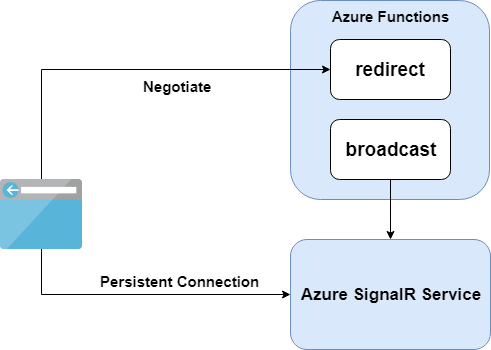
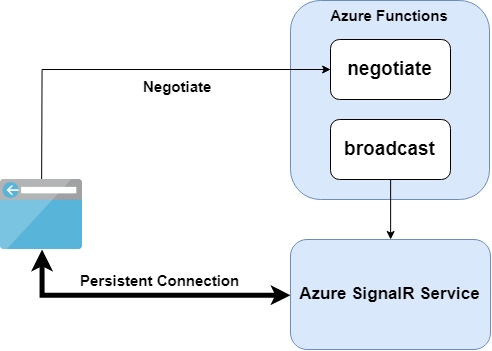
minor refine

diff --git a/docs/rest-api.md b/docs/rest-api.md
@@ -23,7 +23,7 @@ The following diagram shows a typical server-less architecture of using Azure Si
 
 ![Typical Serverless Architecture](./images/serverless-arch.png)
 
-- `redirect` function will return negotiation response and redirect all clients to Azure SignalR Service.
+- `negotiate` function will return negotiation response and redirect all clients to Azure SignalR Service.
 - `broadcast` function will call Azure SignalR Service's REST API. Then SignalR Service will broadcast the message to all connected clients.
 
 In server-less architecture, clients still have persistent connections to Azure SignalR Service.
@@ -127,7 +127,7 @@ Otherwise SignalR Service can't find target connections from a given user id.
 This can be achieved by including a `nameid` claim in each client's JWT token when they are connecting to Azure SignalR Service.
 Then SignalR Service will use the value of `nameid` claim as the user id of each client connection.
 
-As shown in the [architecture section](#serverlss), the `redirect` function will return a redirect negotiation response to client.
+As shown in the [architecture section](#serverlss), the `negotiate` function will return a redirect negotiation response to client.
 A typical negotiation response looks like as folllowing. The `nameid` claim should be included in the access token.
 
     ```json
